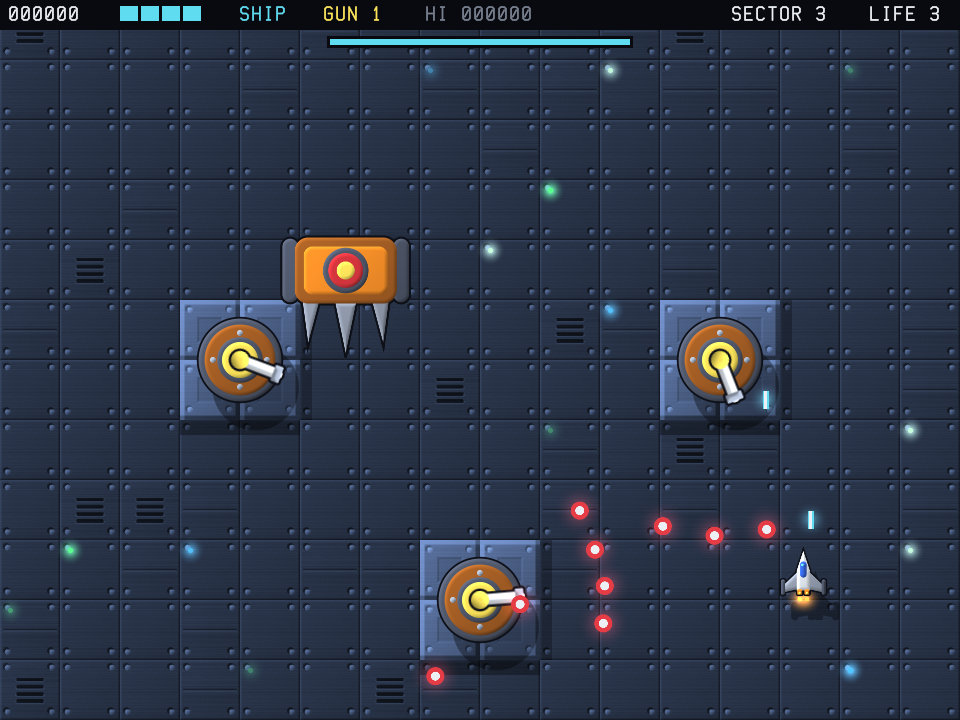
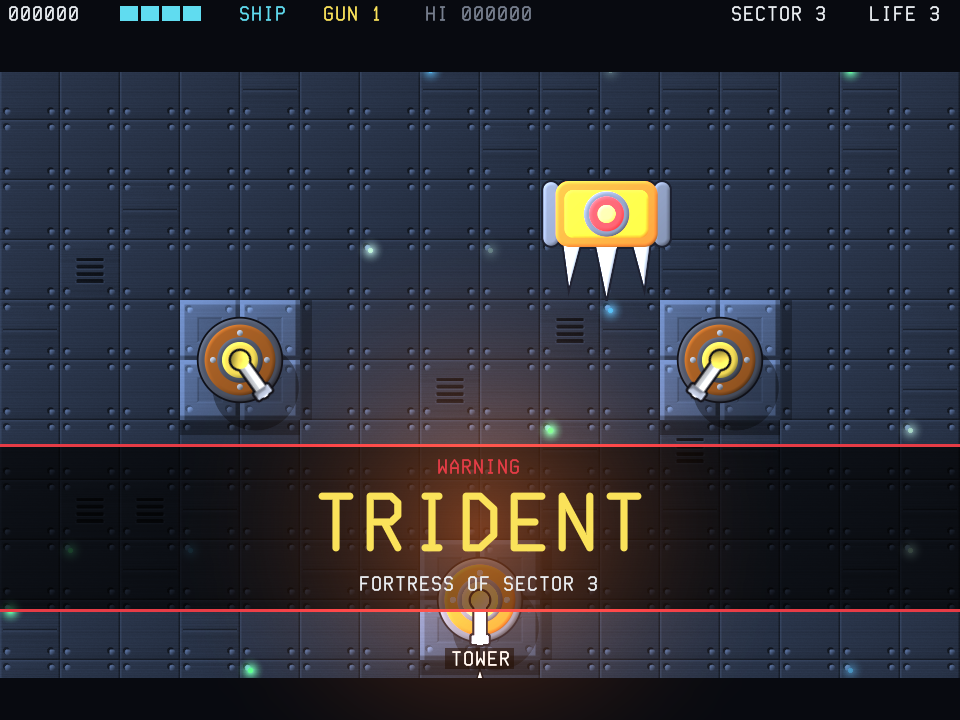
Give the fortress an entrance
The fortress scrolled into view like any other enemy, with a small
name flashing under its bar.

Announce it.  An alarm sounds three times and shakes the screen, bars
close in, and the name sweeps across in a band below the fortress,
which stays in view.  Nobody at the fortress fires until that is over,
and the bar of the core fills up meanwhile.  Afterwards the name stays
under the bar.

diff --git a/src/game.c b/src/game.c
@@ -10,6 +10,8 @@
 #define BLAST_LIFE 20
 #define MAX_SHAKE  10
 #define SCAN_GAP   60
+#define INTRO_FRAMES 210	/* the fortress makes its entrance */
+#define INTRO_HOOT   36	/* frames between the three alarm calls */
 #define NAME_FRAMES 150	/* how long a newcomer carries its name */
 #define SPIRAL_TURN 0.07f	/* radians per frame */
 #define CORE_CYCLE 300	/* frames between swoops, and between rovers */
@@ -53,6 +55,7 @@ static struct {
 	float         mx, my;
 	int           mouse, direct, bot;
 	unsigned      met;		/* enemy types seen in this sector */
+	int           intro;
 	int           pods, next_spawn, start_row, start_sector, flash, shake;
 	struct axis   wx, wy;
 	float         cam, fx, fy;
@@ -206,6 +209,14 @@ static float player_angle(void)
 static float aim_at(const struct enemy *e)
 {
 	return atan2f(g.p.x - e->x, e->y - g.p.y);
+}
+
+/* The intro opens with three alarm calls: the frame within one, or -1. */
+static int hoot(void)
+{
+	int t = INTRO_FRAMES - g.intro;
+
+	return g.intro && t < 3 * INTRO_HOOT ? t % INTRO_HOOT : -1;
 }
 
 static const char *name_of(const struct enemy *e)
@@ -384,6 +395,7 @@ static void start_sector(int sector)
 	g.sector = sector;
 	g.mouse = 0;
 	g.met = 0;
+	g.intro = 0;
 	level_generate(&lv, sector);
 	sfx_say(beyond() ? "BEYOND" : sector_name[sector]);
 
@@ -782,6 +794,8 @@ static void update_enemies(void)
 			g.met |= 1u << e->type;
 			e->named = NAME_FRAMES;
 			sfx_say(name_of(e));
+			if (e->type == E_CORE)
+				g.intro = INTRO_FRAMES;
 		}
 		aim = aim_at(e);
 
@@ -820,13 +834,16 @@ static void update_enemies(void)
 			break;
 
 		case E_POD:
-			if (vis && e->t % 90 == 0)
+			if (vis && !g.intro && e->t % 90 == 0)
 				enemy_fire(e, aim, g.sector < 2 ? 1 : t->shots, 0.3f);
 			break;
 
 		case E_CORE:
 			core_move(e);
-			if (!vis || shielded(e))
+			if (hoot() >= 0 && hoot() < 6)
+				e->flash = 2;
+			/* nobody fires while the fortress makes its entrance */
+			if (!vis || shielded(e) || g.intro)
 				break;
 			if (e->lifted && e->t % 50 == 0)
 				enemy_fire(e, aim, 5, 0.25f);
@@ -1174,6 +1191,13 @@ void game_update(const struct input *in)
 		g.flash--;
 	if (g.shake)
 		g.shake--;
+	if (g.intro) {
+		if (hoot() == 0) {
+			sfx_play(SFX_ALARM);
+			g.shake = SDL_max(g.shake, 6);
+		}
+		g.intro--;
+	}
 
 	/* one-button joystick: a quick wiggle on either axis morphs */
 	if (!g.bot) {
@@ -1580,6 +1604,33 @@ static void draw_blast(const struct part *q, float cam)
 		gfx_disc(q->x, y, r * (0.3f - 0.8f * k), WHITE);
 }
 
+/* The fortress is announced: bars close in, its name sweeps across in a band. */
+static void draw_intro(void)
+{
+	enum { BAND = 148 };	/* below the fortress, which stays in view */
+	const char *name = boss()->name;
+	int t = INTRO_FRAMES - g.intro;
+	float in = SDL_min(t, 16) / 16.0f, out = SDL_min(g.intro, 16) / 16.0f, k = in * out;
+	float w = strlen(name) * 16 - 4;
+	float x = (SCREEN_W - w) / 2 + (out - in) * SCREEN_W;
+	SDL_Color line = RED;
+
+	line.a = 255 * k;
+	gfx_rect(0, 10, SCREEN_W, 14 * k, DARK);
+	gfx_rect(0, SCREEN_H - 14 * k, SCREEN_W, 14 * k, DARK);
+	gfx_rect(0, BAND, SCREEN_W, 56, (SDL_Color){ 0, 0, 0, 180 * k });
+	gfx_rect(0, BAND, SCREEN_W, 1, line);
+	gfx_rect(0, BAND + 55, SCREEN_W, 1, line);
+	gfx_glow(SCREEN_W / 2, BAND + 28, 110, (SDL_Color){ 255, 110, 30, 110 * k });
+
+	if ((t / 8) & 1)
+		gfx_text(-1, BAND + 5, 1, RED, "WARNING");
+	gfx_text(x, BAND + 16, 4, YELLOW, "%s", name);
+	if (k == 1)
+		gfx_text(-1, BAND + 44, 1, WHITE, beyond() ? "FORTRESS OF LAP %d" : "FORTRESS OF SECTOR %d",
+			 beyond() ? lap() + 1 : g.sector + 1);
+}
+
 static void draw_hud(void)
 {
 	const struct player *p = &g.p;
@@ -1606,11 +1657,14 @@ static void draw_hud(void)
 
 		if (!e->alive || e->type != E_CORE)
 			continue;
+		/* the bar fills up during the intro */
 		gfx_rect(SCREEN_W / 2 - 51, 12, 102, 4, DARK);
-		gfx_rect(SCREEN_W / 2 - 50, 13, 100.0f * e->hp / e->full, 2, shielded(e) ? CYAN : RED);
-		if (e->named & 16)
-			gfx_text(-1, 20, 2, YELLOW, "%s", boss()->name);
+		gfx_rect(SCREEN_W / 2 - 50, 13, 100.0f * e->hp / e->full * (1 - (float)g.intro / INTRO_FRAMES), 2,
+			 shielded(e) ? CYAN : RED);
+		if (!g.intro)
+			gfx_text(-1, 18, 1, YELLOW, "%s", boss()->name);
 	}
+
 }
 
 void game_draw(void)
@@ -1671,6 +1725,8 @@ void game_draw(void)
 		gfx_rect(0, 0, SCREEN_W, SCREEN_H, (SDL_Color){ 255, 255, 255, g.flash * 10 });
 
 	draw_hud();
+	if (g.intro)
+		draw_intro();
 
 	if (g.state == ST_CLEAR) {
 		gfx_text(-1, 90, 3, YELLOW, "SECTOR %d CLEAR", g.sector + 1);

diff --git a/src/game.h b/src/game.h
@@ -23,7 +23,7 @@ enum sprite {
 	SPR_CORE, SPR_CORE2, SPR_CORE3, SPR_CORE4, SPR_CORE5, SPR_CORE6, SPR_CORE7, SPR_CORE8, SPR_CORE9,
 	SPR_MAX
 };
-enum sfx    { SFX_SHOT, SFX_HIT, SFX_BOOM, SFX_MORPH, SFX_DENY, SFX_PICKUP, SFX_HURT, SFX_MAX };
+enum sfx    { SFX_SHOT, SFX_HIT, SFX_BOOM, SFX_MORPH, SFX_DENY, SFX_PICKUP, SFX_HURT, SFX_ALARM, SFX_MAX };
 enum draw   { DRAW_NORMAL, DRAW_FLASH };
 enum plate  { PLATE_FLOOR, PLATE_SEAM, PLATE_VENT, PLATE_WALL, PLATE_MAX };
 enum theme  { THEME_STEEL, THEME_EMBER, THEME_MAX };

diff --git a/src/sfx.c b/src/sfx.c
@@ -28,6 +28,7 @@ static const struct voice preset[SFX_MAX] = {
 	[SFX_DENY]   = PRESET( 110, 1.00000f, 0.40f, 0.99940f, 0),
 	[SFX_PICKUP] = PRESET( 660, 1.00020f, 0.40f, 0.99960f, 0),
 	[SFX_HURT]   = PRESET( 700, 0.99990f, 0.70f, 0.99970f, 1),
+	[SFX_ALARM]  = PRESET( 380, 1.00012f, 0.50f, 0.99988f, 0),
 };
 
 static struct voice voice[VOICES];

diff --git a/README.md b/README.md
@@ -88,8 +88,10 @@ screen, on the ground or in the air.  The bomb also wipes enemy shots.
 Losing a life costs one gun level, one companion and all speed.
 
 Each sector ends with a fortress.  Its core sits on the ground and is
-shielded until all of its towers are shot down from the air.  A bar at
-the top of the screen shows what the core has left.
+shielded until all of its towers are shot down from the air.  It makes
+an entrance: an alarm sounds, its name sweeps across the screen, and
+nobody fires until that is over.  A bar at the top of the screen shows
+what the core has left.
 
 Every sector has its own fortress, with a core and towers that look
 the part.  They have two, three or four towers.  Some cores sway from side to side, some weave, and some come
